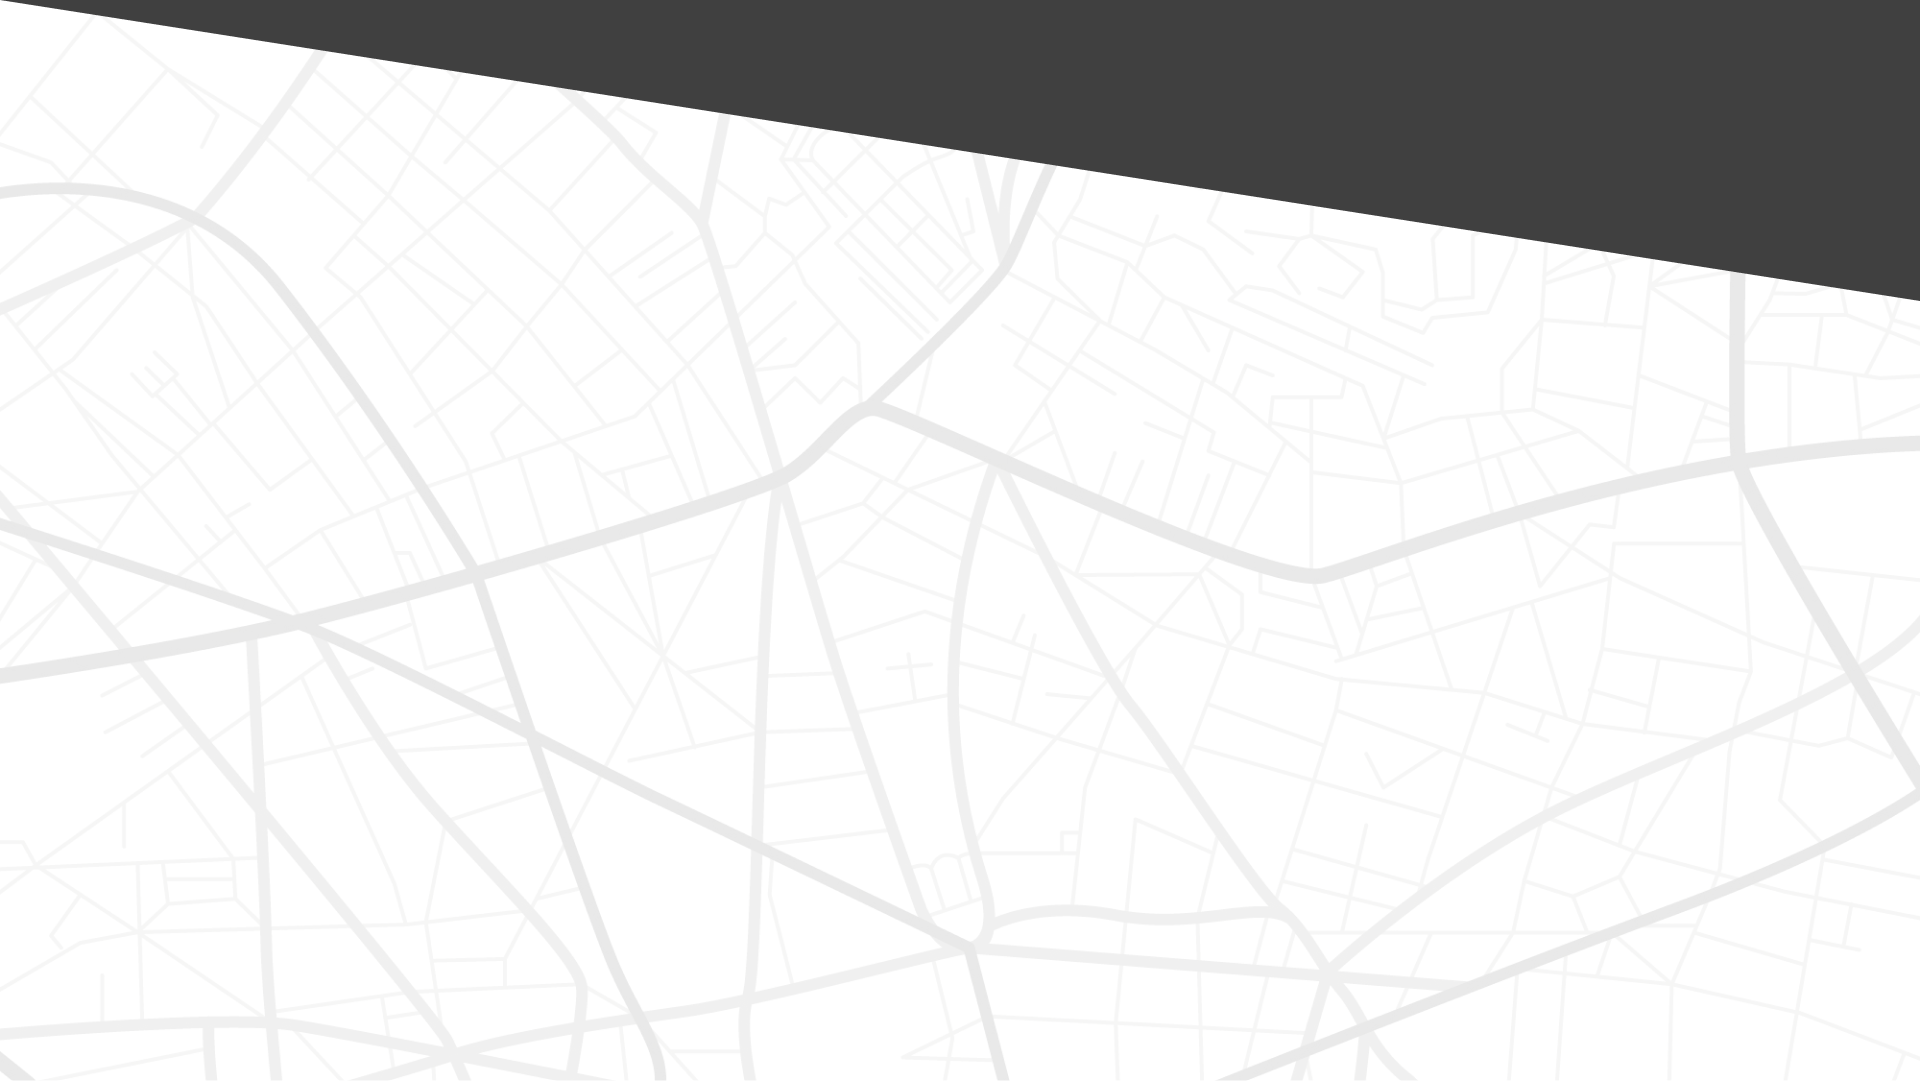
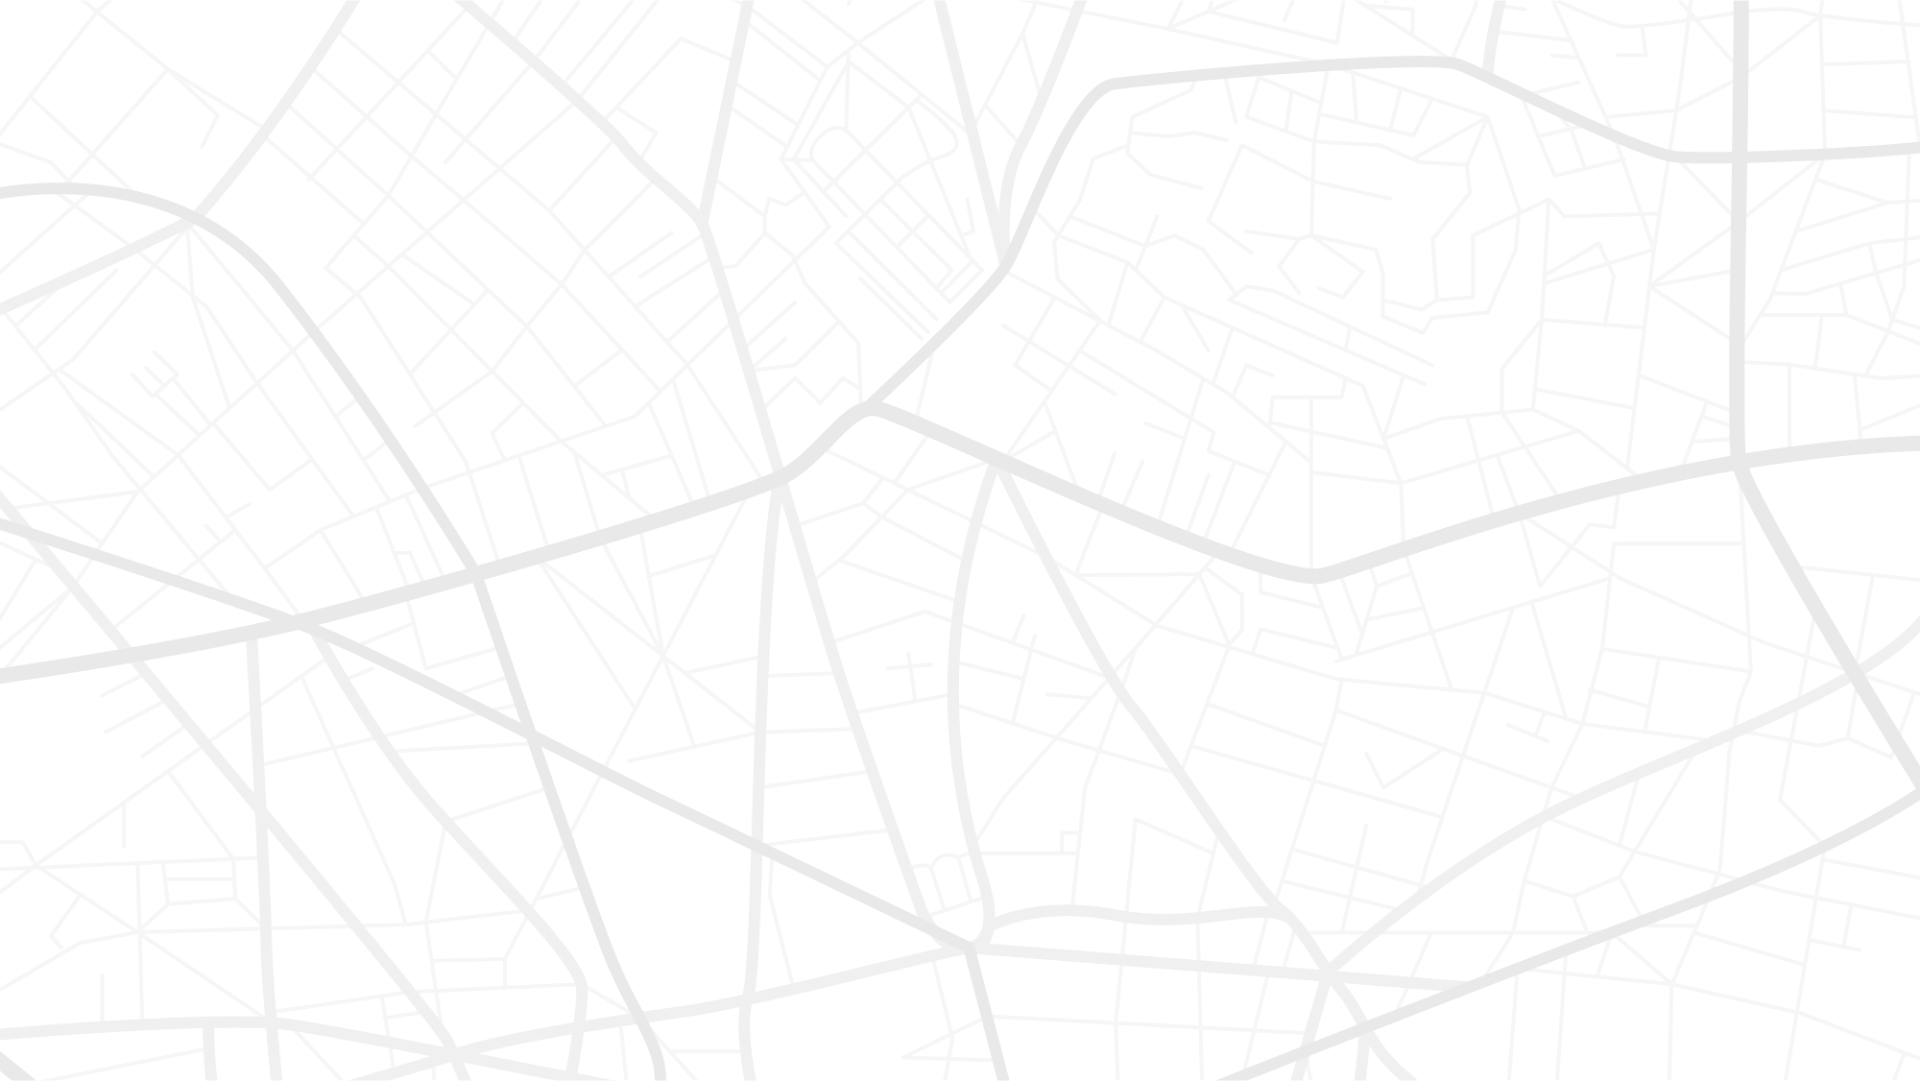
commit

Changed region(s): [[0.0, 0.0, 1.0, 0.2747]]

diff --git a/components/LandingPage/WhyUs/Whyus.tsx b/components/LandingPage/WhyUs/Whyus.tsx
@@ -1,7 +1,10 @@
+"use client"
+
 import React from 'react'
 import Image from 'next/image'
 import "./Whyus.scss"
-
+import { Container } from '@/components/Reusable/ContainerWU/ContainerWU'
+import { motion } from 'framer-motion'
 
 export const Whyus = () => {
 
@@ -9,7 +12,7 @@ export const Whyus = () => {
 
     const MapSvgs = svgArray.map( brand => {
         return (
-            <Image
+            <Image key={brand}
             src={`Images/Logos/${brand}.svg`}
                 width={80}
                 height={80}
@@ -38,9 +41,46 @@ export const Whyus = () => {
             </div>
         </div>
 
-        <div className='flex xl:flex-row flex-col gap-5 relative z-0 max-w-[1440px] mx-auto text-neutral-700'>
-          <h1>hello</h1>
+        <div className='max-w-[1440px] mx-auto text-neutral-700 px-6 sm:px-12'>
+
+          <motion.h1 className='text-3xl lg:text-5xl md:text-4xl mt-6 lg:mt-20 font-semibold text-red-600 text-center'
+           initial={{ opacity: 0, y: -40 }}
+           whileInView={{ opacity: 1, y: 0, transition: { duration: 0.6 } }}>
+            Why choose Us?
+          </motion.h1>
+          <motion.p className=' text-md text-center  md:max-w-lg block mx-auto md:text-xl lg:text-xl my-2 text-neutral-500'
+          initial={{ opacity: 0, y: 40 }}
+          whileInView={{ opacity: 1, y: 0, transition: { duration: 0.6 } }}>
+            With 12 years of experience, our car rental service ensures convenient, affordable, and reliable journeys.
+          </motion.p>
+
+          <div className='container '>
+
+                <Container
+                title='Modern and customized fleet'
+                paragraph="With an extensive fleet of over 500 vehicles available, you'll have the flexibility to select the ideal vehicle for a wide range of activities, whether it's for personal or business purposes."
+                icon="BsReverseLayoutTextWindowReverse"
+                />
+
+                <Container
+                title='Comprehensive advisory services'
+                paragraph='Receive comprehensive and ongoing guidance, get insights into vehicle performance, equipment types, and everything you need to carry out your activities efficiently and safely.'
+                icon="BsBriefcase"
+                />
+
+                <Container
+                title='We have our own maintenance workshop'
+                paragraph='Greater safety and reliability for equipped vehicles also result in cost savings on maintenance and repairs. We provide a quick and efficient solution to any issues that may arise with the vehicle.'
+                icon="BsGear"
+                />
+                <Container
+                title='Immediate response to mechanical emergencies.'
+                paragraph='Our team of experts will always be available to provide you with a quick and efficient response, ensuring that you can continue your activities without any disruptions.'
+                icon=""
+                />
           </div>
+
+        </div>
 
 
 

diff --git a/components/Reusable/ContainerWU/ContainerWU.tsx b/components/Reusable/ContainerWU/ContainerWU.tsx
@@ -1,0 +1,42 @@
+
+"use client"
+import React from 'react'
+import "./ContainerWu.scss"
+import {BsGear, BsReverseLayoutTextWindowReverse, BsBriefcase, BsJournalMedical} from "react-icons/bs"
+import { ContainerWuProps } from '@/types'
+import { motion } from 'framer-motion'
+
+
+export const Container = ({title, paragraph, icon}:ContainerWuProps) => {
+
+  const fadeIn = {
+    hidden: { opacity: 0, y: -20 },
+    visible: { opacity: 1, y: 0, transition: { duration: 0.5 } },
+  };
+
+      const iconDisplay =  icon === "BsGear"? 
+      <BsGear className=" w-16 h-16 text-red-600"/> :  icon === "BsReverseLayoutTextWindowReverse" ?
+      <BsReverseLayoutTextWindowReverse className=" w-16 h-16 text-red-600"/> : icon === "BsBriefcase" ?
+      <BsBriefcase className=" w-16 h-16 text-red-600"/> :  <BsJournalMedical className=" w-16 h-16 text-red-600"/>
+
+  return (
+    <motion.div 
+      className='box'
+      initial={{ opacity: 0, y: 40 }}
+      whileInView={{ opacity: 1, y: 0, transition: { duration: 0.6 } }}
+      
+    >
+        
+        <div className="circle-container">
+        {iconDisplay}
+        
+        </div>
+
+        <h1 className='text-lg  md:text-2xl  font-semibold text-neutral-700 text-center px-6 max-w-md'>{title}</h1>
+        <p className='text-neutral-500  px-6 text-sm md:text-md text-center leading-6'>{paragraph}</p>
+
+    
+    </motion.div>
+  )
+}
+

diff --git a/components/LandingPage/WhyUs/Whyus.scss b/components/LandingPage/WhyUs/Whyus.scss
@@ -2,11 +2,13 @@
 
 .Whyus-section{
     
-        background-image: url(/Images/WhyusBg.png);
+        background-image: url(/Images/WhyUsBg.png);
         background-size: cover;
-        min-height: 100vh;
-        display: flex;
-        flex-direction: column;
+        background-repeat: repeat;
+        border: white 1px solid;
+        height: auto;
+      
+     
      
 
 }
@@ -40,3 +42,29 @@
 
     animation: 15s slide infinite linear;
 }
+
+
+.container {
+    display: grid;
+    grid-template-columns: repeat(2, 1fr);
+    gap: 24px;
+    height: auto;
+    margin: 24px auto;
+}
+
+@media (max-width: 600px) {
+    .container {
+        grid-template-columns: repeat(1, 1fr);
+    }
+
+}
+
+@media (min-width: 640px) {
+    .container {
+        gap: 48px;
+        margin: 48px auto 80px;
+    }
+
+}
+
+

diff --git a/components/Reusable/ContainerWU/ContainerWu.scss b/components/Reusable/ContainerWU/ContainerWu.scss
@@ -1,0 +1,40 @@
+.box{
+    background-color: white;
+    padding: 25px;
+    text-align: center;
+    border: 1px solid #ccc;
+    border-bottom: 8px #dc2626 solid;
+    border-radius: 8px ;
+
+    display: flex;
+    justify-content: center;
+    align-items: center;
+    flex-direction: column;
+    gap: 1em;
+
+    @media (min-width: 767px) {
+        
+            padding: 35px;
+        
+    
+    }
+    
+
+}
+
+.circle-container{
+    background-image: url(/Images/WhyUsBg.png);
+    background-size: cover;
+    background-repeat: repeat;
+
+    display: flex;
+    justify-content: center;
+    align-items: center;
+
+   
+
+    border: 1px solid #ccc;
+    border-radius: 50%;
+    width: 140px;
+    height: 140px;
+}

diff --git a/app/page.tsx b/app/page.tsx
@@ -2,6 +2,7 @@
 import React from 'react'
 import Image from 'next/image'
 import { LandingPage } from '@/components'
+import Head from 'next/head'
 
 
 
@@ -10,12 +11,20 @@ export default function Home() {
 
 
   return (
-
+    <>
+    <Head>
+    <style>
+  @import url('https://fonts.googleapis.com/css2?family=Lato:wght@300&family=Roboto:ital,wght@0,100;0,300;0,400;0,500;0,700;0,900;1,700&display=swap');
+  </style>
+    </Head>
     
+
     <main className="overflow-hidden">
   
      <LandingPage/>
      
     </main>
+
+    </>
   )
 }

diff --git a/components/LandingPage/ContactBanner/ContactBanner.scss b/components/LandingPage/ContactBanner/ContactBanner.scss
@@ -1,0 +1,26 @@
+.Banner{
+
+    background-image: url(/Images/contactBg3.png);
+    
+    background-repeat: repeat;
+
+ width: 100%;
+ height: 200px;
+ 
+ display: flex;
+ justify-content: center;
+ align-items: center;
+ background-color: red;
+
+ @media (min-width: 767px) {
+        
+    height: 450px;
+}
+
+@media (max-width: 1500px) {
+        
+    
+    background-size: cover;
+
+}
+}

diff --git a/app/globals.css b/app/globals.css
@@ -3,14 +3,15 @@
 @tailwind utilities;
 
 
-@import url('https://fonts.googleapis.com/css2?family=Roboto:ital,wght@0,100;0,300;0,400;0,500;0,700;0,900;1,700&display=swap');
+
 
 
 * {
     margin: 0;
     padding: 0;
     box-sizing: border-box;
-    font-family: 'Roboto', sans-serif;
+    font-family: 'Lato', sans-serif;
+    
     
   }
 

diff --git a/components/index.tsx b/components/index.tsx
@@ -2,7 +2,7 @@ import Hero from "./LandingPage/Hero";
 import { Whyus } from "./LandingPage/WhyUs/Whyus";
 import Navbar from "./NavBar/Navbar";
 import Footer from "./Footer";
-import CustomButton from "./CustomButton";
+import CustomButton from "./Reusable/CustomButton";
 import LandingPage from "./LandingPage/LandingPage";
 
 export {

diff --git a/components/LandingPage/LandingPage.tsx b/components/LandingPage/LandingPage.tsx
@@ -1,5 +1,6 @@
 import React from 'react'
 import { Hero, Whyus } from '..'
+import { ContactBanner } from './ContactBanner/ContactBanner'
 
 
 const LandingPage = () => {
@@ -7,6 +8,7 @@ const LandingPage = () => {
     <>
     <Hero/>
     <Whyus/>
+    <ContactBanner/>
     </>
   )
 }

diff --git a/types/index.ts b/types/index.ts
@@ -6,3 +6,9 @@ export interface CustomButtonsProps {
     handleClick?: 
     MouseEventHandler<HTMLButtonElement>;
 }
+
+export interface ContainerWuProps {
+    title: string;
+    paragraph: string;
+    icon: any;
+}

diff --git a/components/LandingPage/ContactBanner/ContactBanner.tsx b/components/LandingPage/ContactBanner/ContactBanner.tsx
@@ -1,0 +1,9 @@
+import React from 'react'
+import "./ContactBanner.scss"
+export const ContactBanner = () => {
+  return (
+    <div className='Banner'>
+        ContactBanner
+    </div>
+  )
+}
